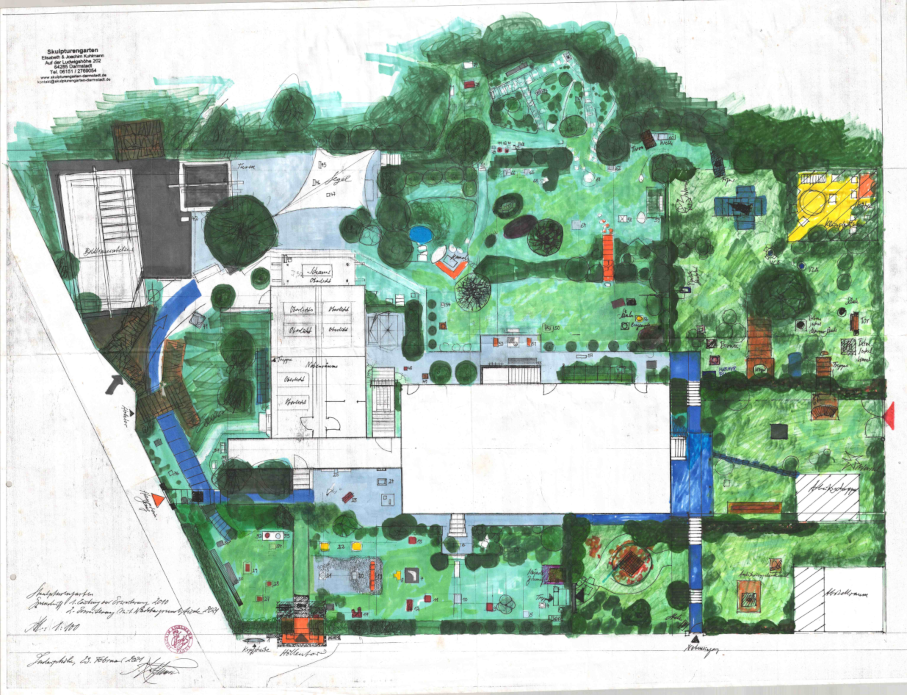
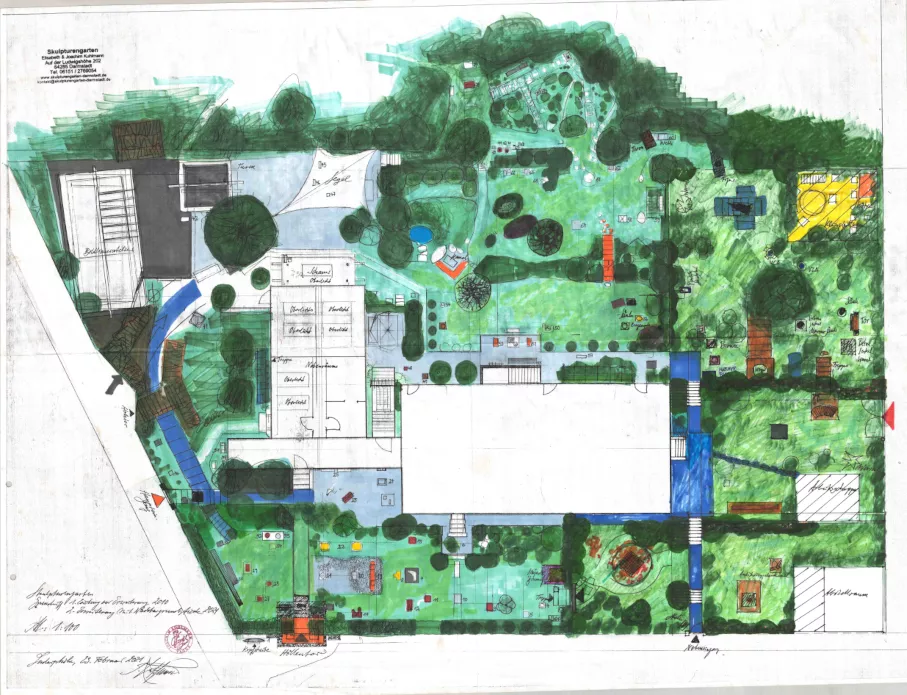
Use WebP for the main image (and PNG as fallback)

Changed region(s): [[0.8644, 0.2417, 0.957, 0.3324], [0.6483, 0.3324, 0.6792, 0.3626]]

diff --git a/resources/index.html b/resources/index.html
@@ -2,8 +2,6 @@
 <html class="h-100" lang="de">
 <head>
   <meta charset="UTF-8">
-  <meta name="viewport" content="width=device-width, initial-scale=1">
-
   <%- include(`${RES_DIR}/.templates/head.html`); %>
 
   <title><%= pageTitle %></title>
@@ -15,12 +13,15 @@
   <div class="container">
     <div class="d-grid justify-content-center">
       <div id="imgDiv" style="position: relative">
-        <img id="imgNode" src="<%- url.root %>/img/bg.png" class="img-fluid" onclick="onBtnClick(null)"
-             width="907" height="695" alt="Zeichnung des Skulpturengartens, aus der Luft">
+        <picture>
+          <source srcset="<%- url.root %>/img/bg.webp 907w,<%- url.root %>/img/bg_hd.webp 1920w"
+                  sizes="(max-width: 2000px) 907px, 1920px" type="image/webp">
+          <source srcset="<%- url.root %>/img/bg.png 907w,<%- url.root %>/img/bg_hd.png 1920w"
+                  sizes="(max-width: 2000px) 907px, 1920px" type="image/png">
 
-        <!-- Load hd image in the background and show button when ready -->
-        <!-- <img src="<%- url.root %>/img/feathericons/maximize-2.svg" style="padding: revert; position: absolute; top: 15px; right: 15px;" -->
-        <!-- alt="Click to maximize image" onclick="toggleFullscreen(this)"> -->
+          <img src="<%- url.root %>/img/bg.png" class="img-fluid" onclick="onBtnClick(null)"
+               alt="Zeichnung des Skulpturengartens, aus der Luft">
+        </picture>
 
         <!-- TODO: Add animation to card close -->
 

diff --git a/resources/.templates/head.html b/resources/.templates/head.html
@@ -1,3 +1,5 @@
+<meta name="viewport" content="width=device-width, initial-scale=1">
+
 <!-- Favicon -->
 <link rel="apple-touch-icon" sizes="180x180" href="<%- url.root %>/img/favicon/apple-touch-icon.png">
 <link rel="icon" type="image/png" sizes="32x32" href="<%- url.root %>/img/favicon/favicon-32x32.png">

diff --git a/resources/privacy.html b/resources/privacy.html
@@ -2,8 +2,6 @@
 <html class="h-100" lang="de">
 <head>
   <meta charset="UTF-8">
-  <meta name="viewport" content="width=device-width, initial-scale=1">
-
   <%- include(`${RES_DIR}/.templates/head.html`); %>
 
   <title>Datenschutzbestimmung | <%= pageTitle %></title>

diff --git a/resources/legal.html b/resources/legal.html
@@ -2,8 +2,6 @@
 <html class="h-100" lang="de">
 <head>
   <meta charset="UTF-8">
-  <meta name="viewport" content="width=device-width, initial-scale=1">
-
   <%- include(`${RES_DIR}/.templates/head.html`); %>
 
   <title>Impressum | <%= pageTitle %></title>
